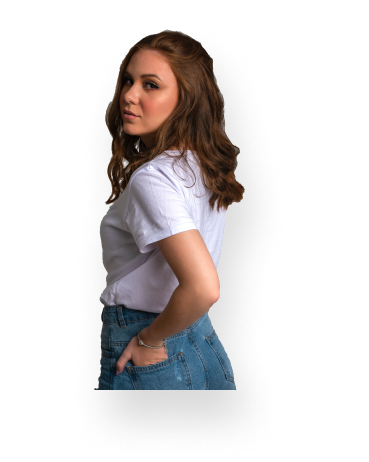
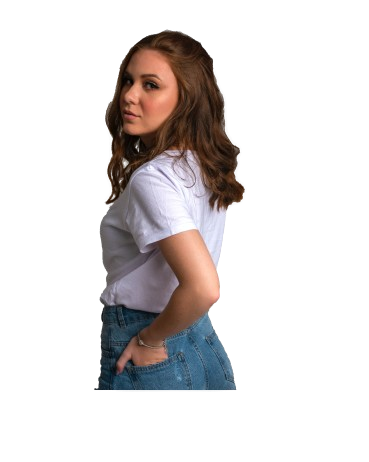
second row of our products__4

Changed region(s): [[0.3279, 0.8182, 0.626, 0.9091], [0.5664, 0.4242, 0.6558, 0.7273]]

diff --git a/HTML and CSS/New Neura/neuraa.html b/HTML and CSS/New Neura/neuraa.html
@@ -154,7 +154,7 @@
             <div class="our__products__items__container__one">
                 <div class="our__products__items__one  products__items" >
                     <div class="our__products__image__container__1">
-                        <img src="images/our-product-1.png" class="our__products__image__1">
+                        <img src="images/our-product-1.png" class="our__products__image__1  productImage">
                     </div>
                     <div class="products__items__description__container__one  productsDescription">
                         <p>Spread Collar Shirt</p>
@@ -164,7 +164,7 @@
 
                 <div class="our__products__items__two  products__items">
                     <div class="our__products__image__container__2">
-                        <img src="images/our-product-2.png" class="our__products__image__2">
+                        <img src="images/our-product-2.png" class="our__products__image__2  productImage">
                     </div>
                     <div class="products__items__description__container__two  productsDescription">
                         <p>White Solid Formal Shirt</p>
@@ -174,7 +174,7 @@
 
                 <div class="our__products__items__three  products__items">
                     <div class="our__products__image__container__3">
-                        <img src="images/our-product-3.png" class="our__products__image__3">
+                        <img src="images/our-product-3.png" class="our__products__image__3  productImage">
                     </div>
                     <div class="products__items__description__container__three  productsDescription">
                         <p>Shine On Me Blouse</p>
@@ -184,7 +184,7 @@
 
                 <div class="our__products__items__four  products__items">
                     <div class="our__products__image__container__4">
-                        <img src="images/our-product-4.png" class="our__products__image__4">
+                        <img src="images/our-product-4.png" class="our__products__image__4  productImage">
                     </div>
                     <div class="products__items__description__container__four  productsDescription">
                         <p>Gray Solid Padded Jacket</p>
@@ -197,11 +197,8 @@
             <div class="our__products__items__container__two">
                 <div class="our__products__items__five  products__items">
                     <div>
-
+                        <img src="images/our-product-5.png" class="our__products__image__5  productImage">
                     </div>
-                </div>
-
-                <div>
                     <div>
 
                     </div>
@@ -209,11 +206,26 @@
 
                 <div>
                     <div>
+                        <img src="images/our-product-6.png" class="our__products__image__6  ProductImage">
+                    </div>
+                    <div>
 
                     </div>
                 </div>
 
                 <div>
+                    <div>
+                        <img src="images/our-product-7.png" class="our__products__image__7  productImage">
+                    </div>
+                    <div>
+
+                    </div>
+                </div>
+
+                <div>
+                    <div>
+                        <img src="images/our-product-8.png" class="our__products__image__8  productImage">
+                    </div>
                     <div>
 
                     </div>

diff --git a/HTML and CSS/New Neura/neuraa.css b/HTML and CSS/New Neura/neuraa.css
@@ -323,50 +323,30 @@
 
 
 /* Our Products - ROW 1: Product Images */
-.our__products__image__container__1 {
-    width: 100%;
-    height: 300px;
-}
-
-.our__products__image__1 {
-    width: 100%;
-    height: 300px;
-}
-
-.our__products__image__container__2 {
+.productImage{
     width: 100%;
     height: 300px;
 }
 
 .our__products__image__2 {
-    width: 120%;
-    height: 354px;
-}
-
-.our__products__image__container__3 {
     width: 100%;
-    height: 300px;
-}
-
-.our__products__image__3 {
-    width: 100%;
-    height: 300px;
-}
-
-.our__products__image__container__4 {
-    width: 100%;
-    height: 300px;
-}
-
-.our__products__image__4 {
-    width: 100%;
-    height: 300px;
+    height: 100%;
+    object-fit: cover;
+    padding-bottom: 0;
 }
 
 .our__products__items__two {
     background-color: #DED9D5;
     height: 300px;
+    display: flex;
+    flex-direction: column;
+    padding-bottom: 0;
 }
+
+.our__products__description__container__two {
+    margin-top: 0rem; /* Adds space between image container and description */
+}
+
 
 /* Our Products - ROW 2: Product Images */
 .our__products__items__container__two {
@@ -392,4 +372,11 @@
 
 .ratings__2 {
     word-spacing: 0.3rem;
+}
+
+
+/* Our Products - ROW 2: Product Images */
+.our__products__image__6 {
+    width: 120%;
+    height: 300px;
 }
